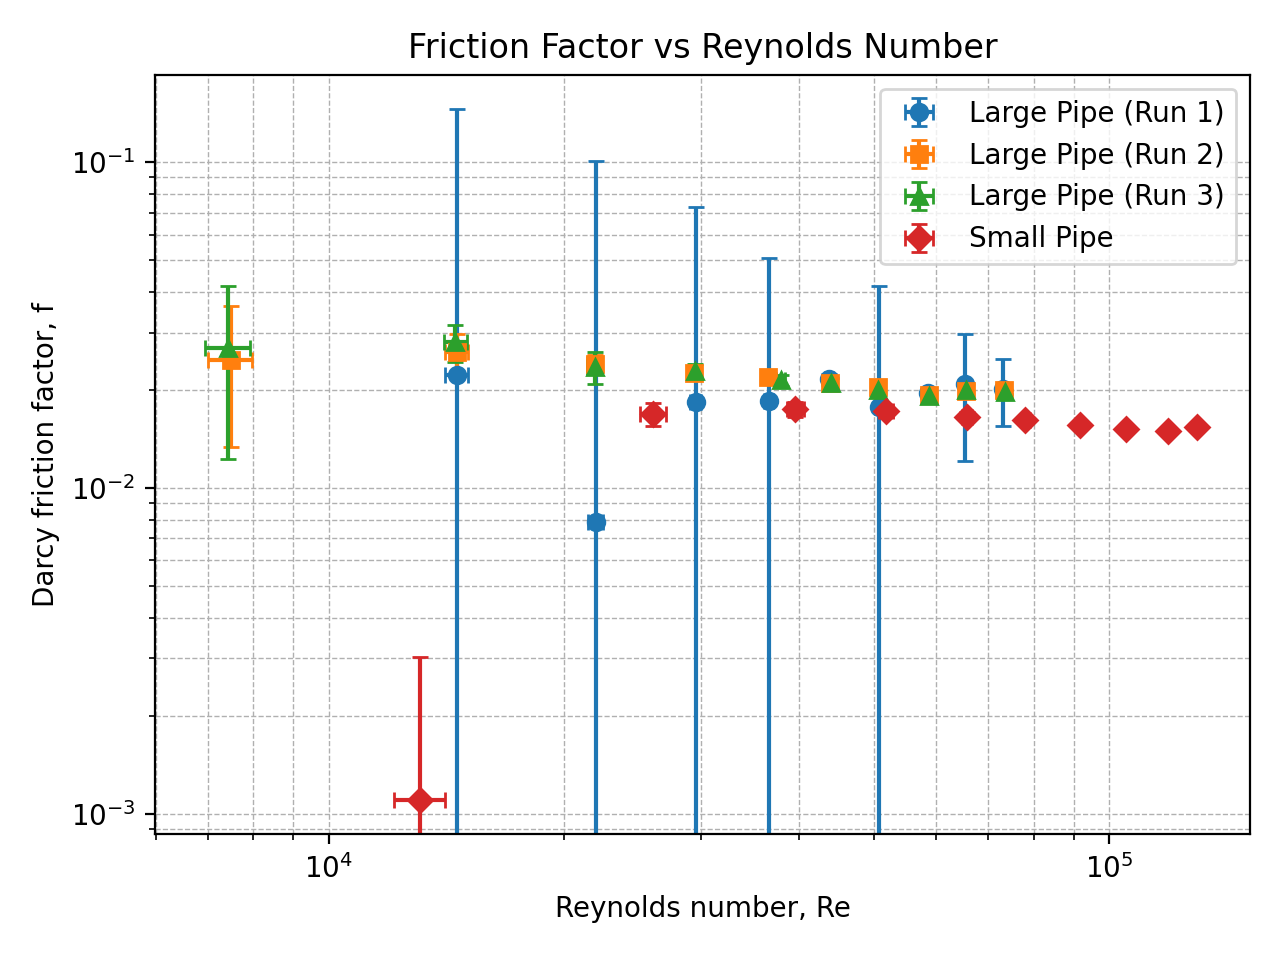
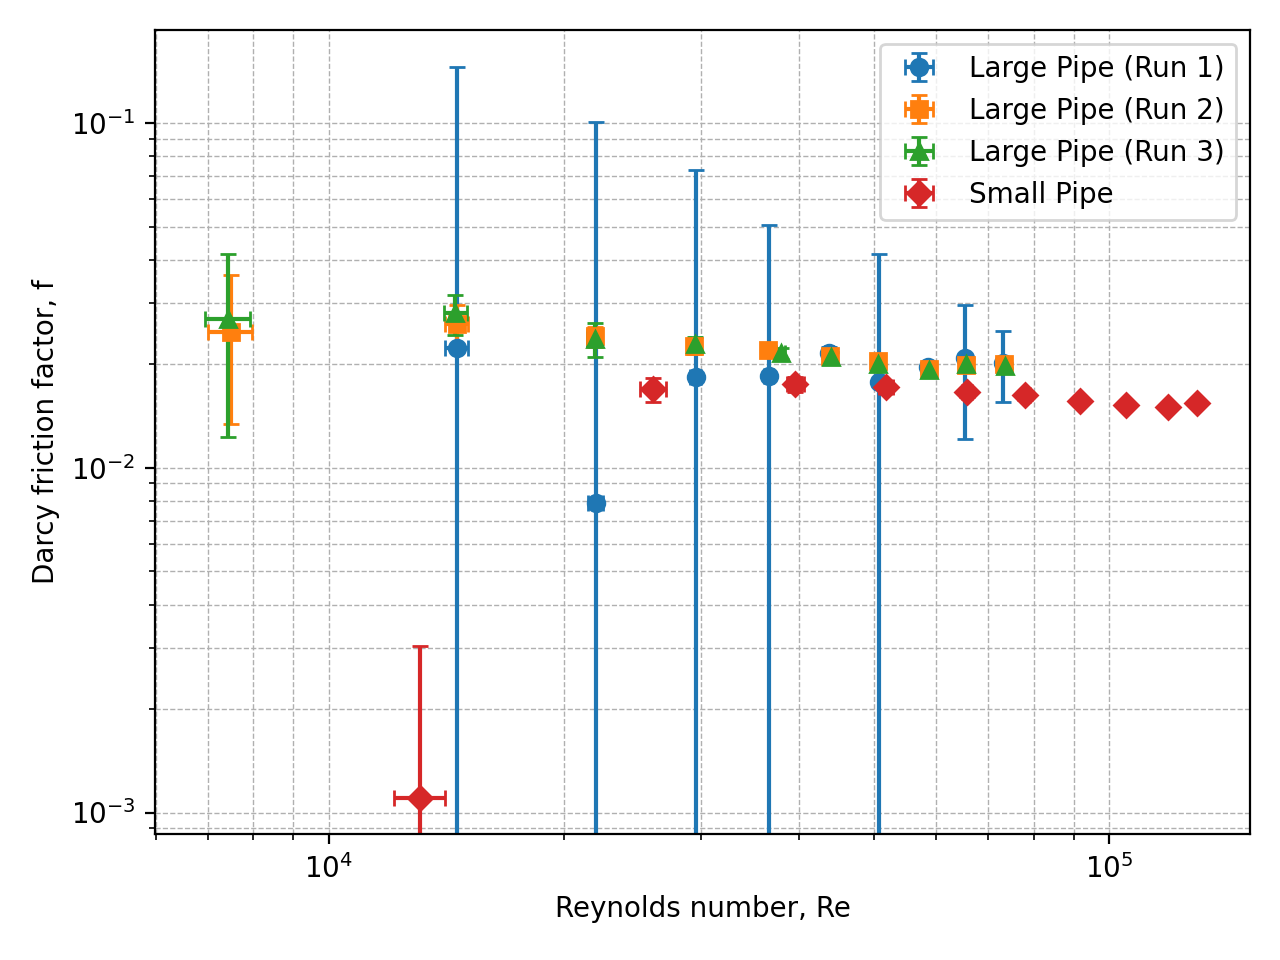
thermal lab done

diff --git a/Spring 2026/Thermal Sciences Lab/Pipe Loss Lab 1/uncertainty.py b/Spring 2026/Thermal Sciences Lab/Pipe Loss Lab 1/uncertainty.py
@@ -16,6 +16,7 @@ equations = [
     "f = 2 * g * (hl/39.37007874) * d / (L * v**2)",
     "h_el_m = 6894.76 * dp / (rho * g)",            # meters (for KL)
     "Kl = 2 * g * h_el_m / (v**2)",
+    "Le = 4.4 * d * Re**(1/6)",
 
 ]
 
@@ -77,6 +78,7 @@ def compute_rho_and_hl(run, dp_list, size):
     run.Re = []
     run.f = []
     
+    
 
     # Density per point
     for T in run.T_C:
@@ -120,14 +122,28 @@ def compute_kl(run, elbow_dp_list):
         kl = RSS("Kl", equations[8], [elbow_hl, v, g])
         run.kl.append(kl)
 
+def compute_le(run):
+    run.Le = []
+    for d, Re in zip(run.d, run.Re):
+        # If Re is non-physical, store NaN so tables/plots can skip it
+        if Re.value <= 0 or not np.isfinite(Re.value):
+            run.Le.append(Data("Le", "Le", float("nan"), float("nan")))
+            continue
+
+        Le = RSS("Le", equations[9], [d, Re])
+        run.Le.append(Le)
+
+
 
 for run in (large_run1, large_run2, large_run3):
     compute_rho_and_hl(run, run.dp_large_psid, size="large")
     compute_kl(run, run.dp_elbow_psid)
+    compute_le(run)
 
 compute_rho_and_hl(small_run1, small_run1.dp_small_psid, size="small")
 
 compute_kl(small_run1, small_run1.dp_elbow_psid)
+compute_le(small_run1)
 
 # -------------------------------------------------
 # Plot: one combined graph (hl vs Q^2) with uncertainty bars
@@ -159,7 +175,7 @@ for run, label, marker in runs:
 
 plt.xlabel("Flowrate² (LPM²)")
 plt.ylabel("Head loss (inches of water)")
-plt.title("Head Loss vs Flowrate²")
+#plt.title("Head Loss vs Flowrate²")
 plt.legend()
 plt.grid(True, linestyle="--", linewidth=0.5)
 plt.tight_layout()
@@ -286,7 +302,7 @@ plt.yscale("log")  # optional, but most Moody-style plots use log-log
 
 plt.xlabel("Reynolds number, Re")
 plt.ylabel("Darcy friction factor, f")
-plt.title("Friction Factor vs Reynolds Number")
+#plt.title("Friction Factor vs Reynolds Number")
 plt.legend()
 plt.grid(True, which="both", linestyle="--", linewidth=0.5)
 plt.tight_layout()
@@ -325,7 +341,7 @@ plot_elbow_hL_vs_Q2(large_run3, "Elbow (Large Run 3)", '^')
 
 plt.xlabel("Flow rate squared, $Q^2$ (m$^6$/s$^2$)")
 plt.ylabel("Elbow head loss, $h_L$ (m)")
-plt.title("Elbow Loss: $h_L$ vs $Q^2$")
+#plt.title("Elbow Loss: $h_L$ vs $Q^2$")
 plt.legend()
 plt.grid(True, linestyle="--", linewidth=0.5)
 plt.tight_layout()
@@ -464,8 +480,91 @@ def print_measurement_uncertainty_table(
                 )
 
 
+def print_kl_table(run, pipe_type="small"):
+    """
+    Prints table rows for Excel paste.
+    Nominal flow column is ignored.
+    Rows printed 100% -> 0%.
+    """
+
+    if pipe_type == "large":
+        dp_list = run.dp_large_psid
+    elif pipe_type == "small":
+        dp_list = run.dp_small_psid
+    else:
+        raise ValueError("pipe_type must be 'large' or 'small'")
+
+    header = (
+        "Actual Flow (LPM),"
+        "Flow Uncertainty (± LPM),"
+        "Head Loss Δh (in),"
+        "Std Dev Head Loss (in),"
+        "Total Head Loss Uncertainty (± in),"
+        "Loss Coefficient KL,"
+        "KL Uncertainty"
+    )
+    print(header)
+
+    for i in reversed(range(len(run.Q_lpm))):
+
+        Q_act = run.Q_lpm[i].value
+        Q_unc = run.Q_lpm[i].uncertainty
+
+        hl = run.head_loss[i].value
+        hl_unc_total = run.head_loss[i].uncertainty
+
+        # std dev from DP only
+        dp_std = dp_list[i].std
+        rho = run.rho[i].value
+
+        hl_std = (dp_std * 6894.76) / (rho * 9.81) * 39.37007874
+
+        KL = run.kl[i].value
+        KL_unc = run.kl[i].uncertainty
+
+        print(
+            f"{Q_act:.3f},"
+            f"{Q_unc:.4f},"
+            f"{hl:.3f},"
+            f"{hl_std:.3f},"
+            f"{hl_unc_total:.4f},"
+            f"{KL:.4f},"
+            f"{KL_unc:.4f}"
+        )
+
+def print_re_le_table(run):
+    """
+    Prints table rows for Excel paste.
+    Nominal flow column is ignored.
+    Rows printed 100% -> 0%.
+    """
+
+    
+
+    header = (
+        "Re +- Uncertainty,"
+        "Le +- Uncertainty,"
+    )
+    print(header)
+
+    for i in reversed(range(len(run.Q_lpm))):
+
+        Re_act = run.Re[i].value
+        Re_unc = run.Re[i].uncertainty
+
+        Le = run.Le[i].value
+        Le_unc = run.Le[i].uncertainty
+
+        print(
+            f"{Re_act:.3f} ± {Re_unc:.4f},"
+            f"{Le:.4f} ± {Le_unc:.4f}"
+        )
+
+
 # Example outputs:
-print_run(large_run1)
+print_run(large_run2)
 print_head_loss_table(small_run1, pipe_type="small")
 
+print_kl_table(large_run2, pipe_type="large")
 
+print_re_le_table(small_run1)

diff --git a/Spring 2026/Thermal Sciences Lab/Pipe Loss Lab 1/rss.py b/Spring 2026/Thermal Sciences Lab/Pipe Loss Lab 1/rss.py
@@ -104,6 +104,7 @@ class RunArrays:
         self.f = []
         self.hl_elbow = []
         self.kl = []
+        self.Le = []
 
 
 # ============================================================
